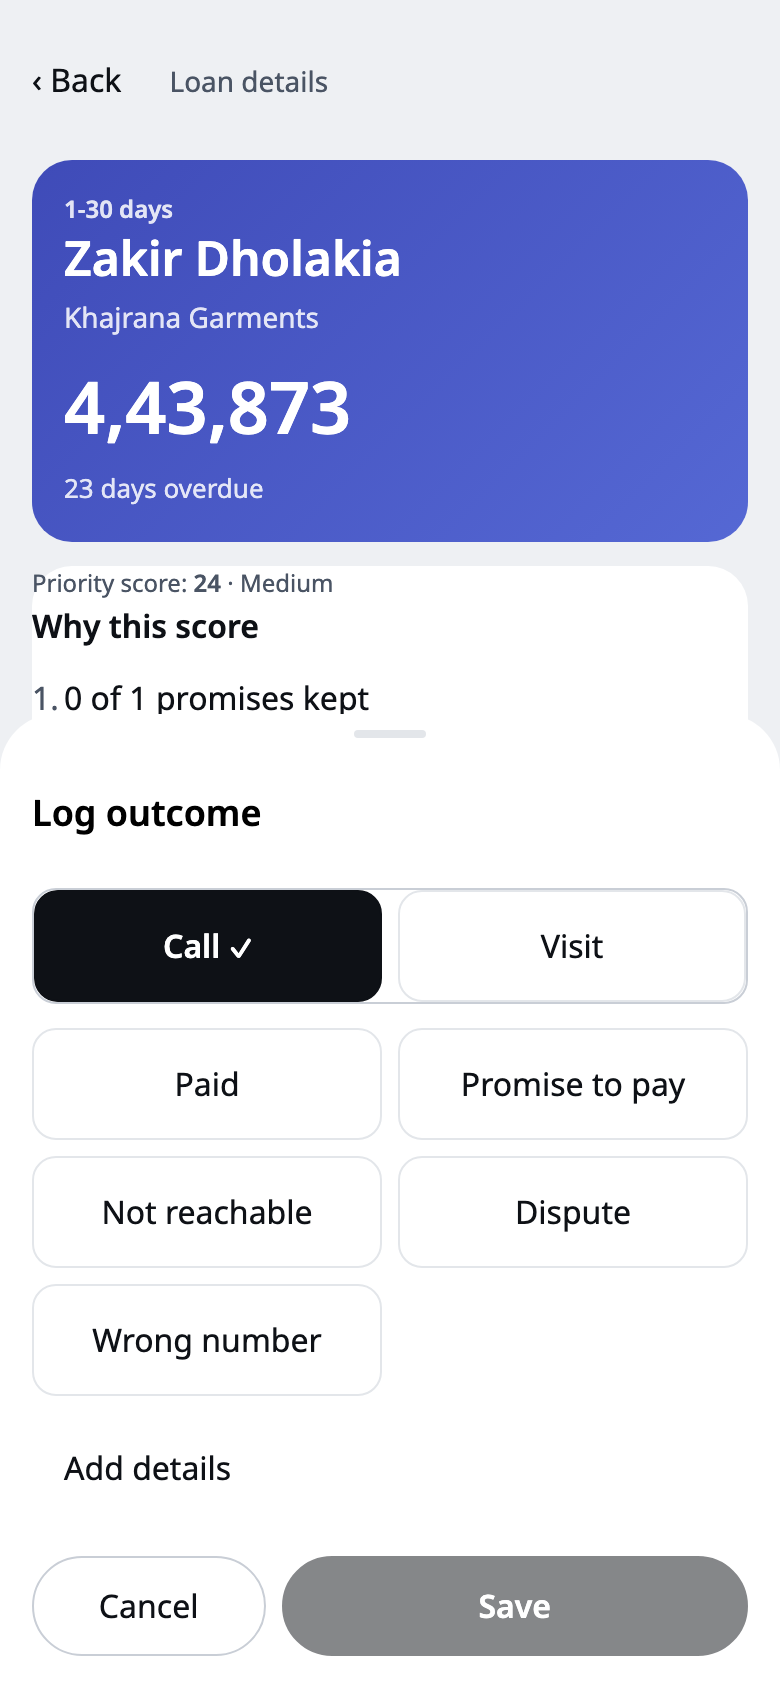
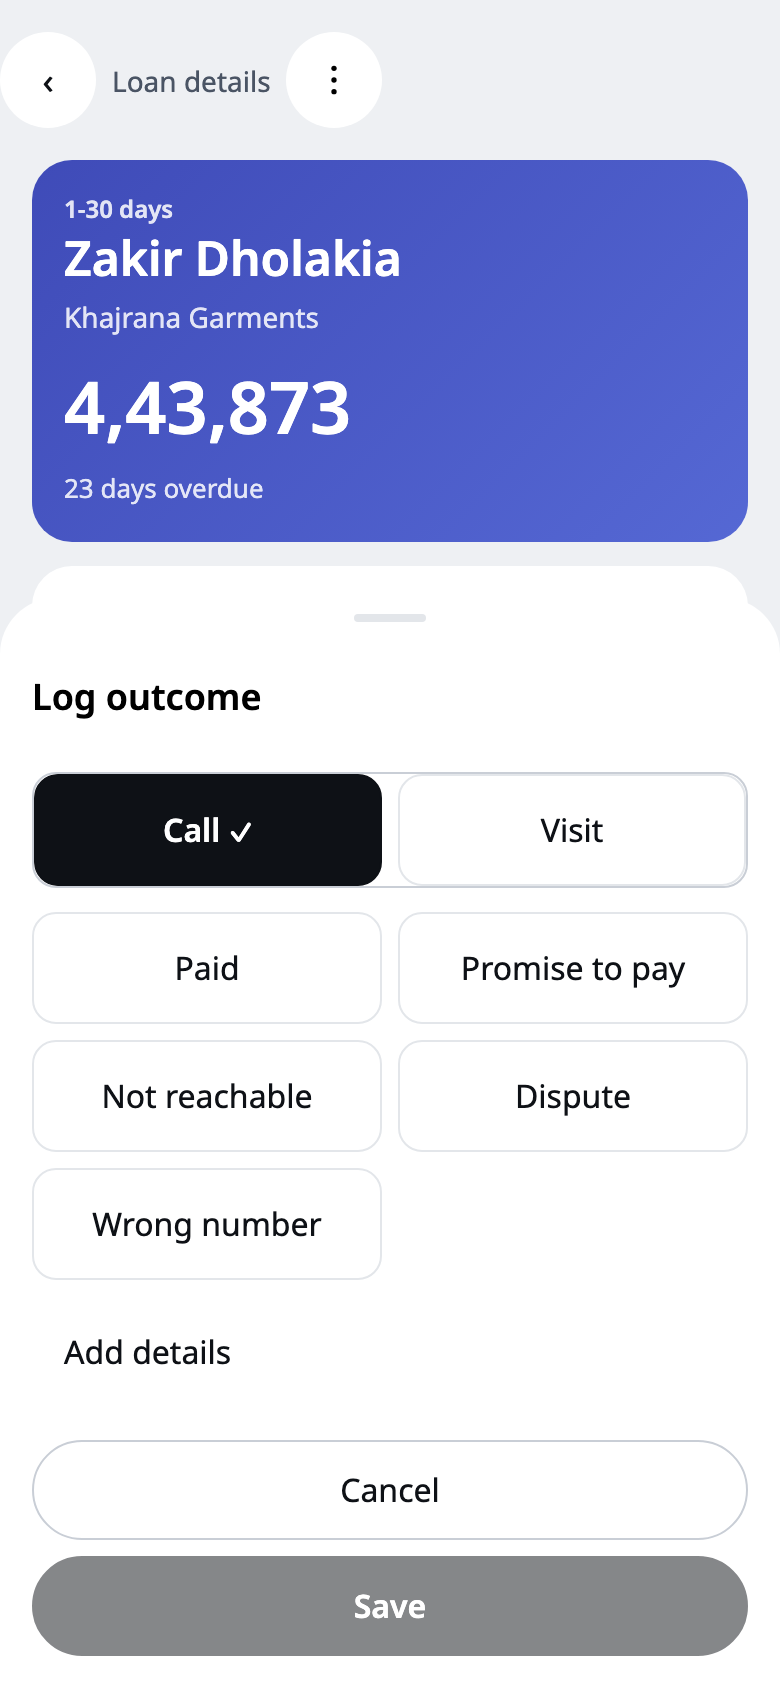
docs: prompt 16 log entry - layout contracts and overlap audits

diff --git a/src/client/styles/app.css b/src/client/styles/app.css
@@ -109,6 +109,7 @@
   justify-content: center;
   justify-self: end;
   font-size: var(--font-size-18);
+  padding: 0;
 }
 
 .history-list li {

diff --git a/docs/log.md b/docs/log.md
@@ -1,5 +1,6 @@
 # Log
 
+- 2026-11-08: Prompt 16 — layout contracts: every screen rebuilt to the reference order (top bar -> heading -> (segmented) -> hero -> summary row -> content cards -> floating bar), layout and order only. Today: top bar (centred "Today", round sync button right — dot colour = state), greeting/date heading at 28px regular, indigo hero (tiny label, 36px count, promises-due caption, 6px dot strip filled from today's logged contacts), a summary row ("Promises due" count + soonest date; "Overdue in list" total in lakh/crore), a segmented All/Promises/Low-priority control (client-side filter over the loaded worklist), borrower cards, then the floating nav pill. Loan detail: top bar (round back, "Loan" centred, round overflow right), bucket-gradient hero, white cards for facts / Why this score / History (last contact, promise, status — composed from existing detail fields, no API change), floating black pill action bar. Sheet: segmented -> chips -> promise fields (conditional) -> note -> full-width black Save pill (Cancel stacked above). Manager: top bar (branch name, round refresh), segmented Overview/Import/Activity navigating the three existing routes, KPI row, chart card, white table cards. Every section carries data-section attributes; each component opens with a "layout contract" comment; src/client/screens/contracts.json is the shared source consumed by BOTH the new layoutContracts.test.ts (source-order assertions per screen, 13 tests) and design-audit's new runtime assertion (DOM order must match the contract on today/detail/manager). layout-audit gains the prompt's overlap check: the floating bar and the nav pill must never overlap each other or the last content card at 360x640 and 390x844 (0 overlaps). All screens re-verified: 587 tests, design-audit PASS (13 screen-passes incl. the order assertions), layout audit 28/28 clean, 32 screenshots regenerated. One deviation: the direction's "History (recent contacts)" card is composed from the existing detail DTO fields (last contact, promise, status) — a real contact-event list would need a new officer-facing endpoint, which the no-API-changes rule forbids; the manager activity view already provides the full event history.
 - 2026-11-08: Prompt 15 — UI redesign pass, no new features, no API changes beyond two additive response fields (business name and the low-lane flag on the assignments rows; last-contact days and the open-promise date on loan detail — the screens the design names require them). Design system: white page, hairlines (#e3e6ea) instead of boxed cards, hierarchy purely by type (scale 12/13/14/16/18/22/24/28/32/36, two weights 400/600), one accent (#0f5f5c, 7.4:1 on white), secondary text darkened to #4a5464 (7.6:1 — the direction's 7:1 body threshold made the old 5.9:1 secondary illegal for 16px use), 4px spacing scale only, no shadows/gradients anywhere. Today: date line + "n visits today" headline + "n promises due" secondary + a dot-and-text sync status; visit rows (88px, hairlines, 3px single-hue DPD rail, 22px hero amount in lakh/crore, one accent top-reason line, score as "Medium 24" text, "Promise due today" accent label, a quiet uppercase LOW PRIORITY divider with reduced-emphasis rows). Loan detail: 24px name, 36px amount hero, a label-over-value 2-column facts grid (outstanding, EMI, last contact, promise), "Why this score" as plain numbered lines with evidence at 14px secondary and the exact advisory sentence, and a restructured sticky bar (Log outcome fills the right two-thirds at 56px; Call/Map outline on the left). Outcome sheet: 56px chips in a 2-column grid with one accent-border selected state, a segmented Call/Visit control, safe-area padding. Manager dashboard: numbers-not-boxes tiles separated by hairlines, the SVG trend at 1.5px with three faint ticks and the 16% target labelled on the chart, sticky-header tables with right-aligned tabular numerals. Bottom nav: 24px stroke-only line icons with 12px labels, accent only on the active tab. Hindi: the root 1.1x scaling preserved; the design audit accepts the x1.1 spacing/font computations by design. New scripts/design-audit.mjs (Playwright, local-only): per screen in both languages it fails on off-scale font sizes, off-scale paddings/margins, any third font weight, contrast below 4.5:1 (7:1 for body-size), tap targets under 48px, and any box-shadow or gradient — findings it caught and we fixed: login inputs off-scale, sticky-bar paddings (UA button defaults), the sheet handle's auto-margin computing to 161px (now positioned), the segmented control's 2px track, the today-sub contrast, the sticky bar sitting under the bottom nav (bottom: 56px + a z-index so the modal sheets overlay it), the undo action's 23px tap target, and auto-centered screens' computed side margins (exempted via data-auto-centered). Results: design-audit PASS on 13 screen-passes (login/today/detail/sheet/promises/me × en+hi + manager desktop); layout audit 28/28 states clean (it caught the Undo button's 23px tap target — fixed to 48px); 574 tests green; screenshots regenerated (32). Officer route 449.99 kB raw / 138.73 kB gzip (budget 150).
 - 2026-11-08: Prompt 14a — security pass + documentation. (1) Headers in BOTH vercel.json (statics) and a Hono middleware (/api/*): HSTS, nosniff, X-Frame-Options DENY, Referrer-Policy, a same-origin CSP (self-hosted fonts; unsafe-inline styles for React style props; frame-ancestors 'none'; form-action/base-uri locked), Permissions-Policy (geolocation self, camera/mic off); smoke:live gained a check-0 that asserts them on every run and the fresh clone's dev API shows all seven (captured). The LIVE site does not carry them yet — curl -I shows only Vercel's platform HSTS; they land with the next vercel deploy and the smoke check verifies. (2) docs/security.md: the endpoint table (roles, Zod schema, rate limit, audit per endpoint) and the access-control matrix whose executable form is the new src/server/accessControl.test.ts — every endpoint × role (anonymous, officer own/other branch, manager own/other branch) through the real routes; import probes send no body so the auth gate fires first; the fake's execute is permissive (statuses, not query counts — the strict no-db-work assertions live in managerSecurity). (3) Audit gaps closed: successful logins (auth:login) and errors.csv downloads (import:errors_download) now write audit_log through two dal writers (the route file stays driver-free — routeDbGuard caught a first attempt that imported db.js into app.ts, exactly its job); failures were already durable in login_attempt (A30); reveal/import/pins/reset were already audited. (4) Secrets: gitleaks over the full 125-commit history — no leaks; .env.example names only; .env, data/generated/ and .tmp-smoke gitignored; the demo PIN appears only as the documented DEMO_PIN constant (A31, hashed at rest). (5) pnpm audit: 4 findings, ALL dev-tooling transitive (esbuild via drizzle-kit's esm-loader, glob/minimatch/deepmerge via workbox-build/eslint); pnpm audit --prod is CLEAN; deepmerge has no patched release and the rest are build-time only — recorded, not force-bumped. (6) Privacy: logout-wipe test extended to the promise cache (all five offline tables die with the session); the 24h TTL and no-raw-phone-in-list assertions already existed and are cited in docs/security.md. (7) smoke:live checks the headers on the live URL. Docs: README.md (pitch, hero screenshot, live URL, demo table with what-to-try, verified quick start, brief mapping, test/back-test summary, honest limitations, the 3-minute demo script) and docs/deployment.md rewritten in the requested order (live URL + demo table, diagram, prerequisites, env table with names only, numbered local run, production deploy, migrations/seed/reset/re-base including the Sunday refusal, smoke checklist, rollback, free-tier caveats, troubleshooting with the two real issues). Fresh-clone proof: the pushed repo cloned into /tmp twice; install/migrate/test all exit 0 (574 tests), the full --reset seed exits 0 (~15 min), and the re-cloned dev API serves all seven security headers. Assumption: none new.
 - 2026-11-08: Prompt 13 — the manager surface (SPEC 11/13): dashboard, import screen, reorder, activity log, in five commits. (1) src/shared/rollRate.ts pure test-first (8 tests): cohort roll rate from two snapshot sets with OPENING branch/officer attribution (count + balance versions), cured/stayed/rolled footing on every row, branch totals equal the sum of the officers, immature windows report "pending" never zero, closed-form Wilson 95% intervals (known values tested), grey-out under n=30, a migration table by opening bucket whose shares sum to 1 per row, and enumerateWindows for the trend's completed 30-day windows. (2) The roll_cohort cache: writeRollCohortCache upserts per-branch and per-officer rows for every completed window with real snapshots (attribution officer = COALESCE(snapshot officer, loan.assigned_officer_id) — the snapshot's own officer column is the absent CSV officer per A68), refreshed nightly and after the newest import batch; 44 windows cached on the demo data. (3) Manager API (all manager-only, branch-scoped IN the SQL): GET /api/manager/dashboard (tiles vs the 16% target with loans-to-save = ceil((roll%−16%)·n), trend, officer table with kept rate + workload + greyed rows, migration table, broken-promise list oldest-first with amount and age, exceptions (25–30 DPD, no promise, no contact in 5 days), the nightly stuck list), GET /api/manager/officers/:id/activity (last 50 contact events, IST time, window flag, violation badge, GPS status/accuracy; the branch join answers empty for foreign officers), POST/DELETE /api/manager/priority (audited in the dal; both the loan AND the officer must sit in the manager's branch), GET /api/manager/queue (A24 reasons: unmapped pincode vs data fix) and GET /api/manager/import-batches. Migration 0005 adds loan_priority_override; the officer's worklist leads with pinned loans and each card carries a "Manager priority" chip (bilingual officer UI). (4) Client: three lazy manager routes (A67: English only) — the dashboard (tiles, SVG trend with the dashed 16% target, stacked-bar migration view, tables with pin buttons; every number and chart footnoted with numerator/denominator/count-vs-balance/cohort type/synthetic data), the import screen (CSV + as-of defaulting to the last working IST day, the full report with assignment outcomes by reason, errors.csv download, queue list, past batches, plain-language abort box), and the activity table. Managers land on the dashboard after login and get a Dashboard/Import/Me nav. (5) Security tests: 401 unauthenticated, 403 field officer on all four manager endpoints BEFORE any db work; live smoke re-checks the 403 and a cross-branch pin (foreign loan → 403). Live: roll cache 222 rows, dashboard tiles 22.1% count / 20.7% balance (n=68, loans-to-save 5, kept rate 73.7%, 44 windows), pin → the officer's first card, activity 50 rows; layout audit 28/28 states clean (manager desktop+phone+import+activity included); 32 screenshots; 565 tests. smoke:live extended (/api/me/promises with the three sections, scoring mode + exactly 3 top reasons on the first assignment, manager login + every new endpoint + the officer 403 + a cross-branch pin 403): ALL 19 checks green against the local stack; against the deployment everything passes except the six new endpoint checks until the next vercel deploy (they answered 404 on the prompt-12 build — deploy then re-run). Officer route 446.56 kB raw / 137.90 kB gzip (budget 150); manager chunks 2.88 / 2.56 / 1.08 kB gzip. Assumption A67 (manager screens English-only), A68 (opening-officer attribution source).
